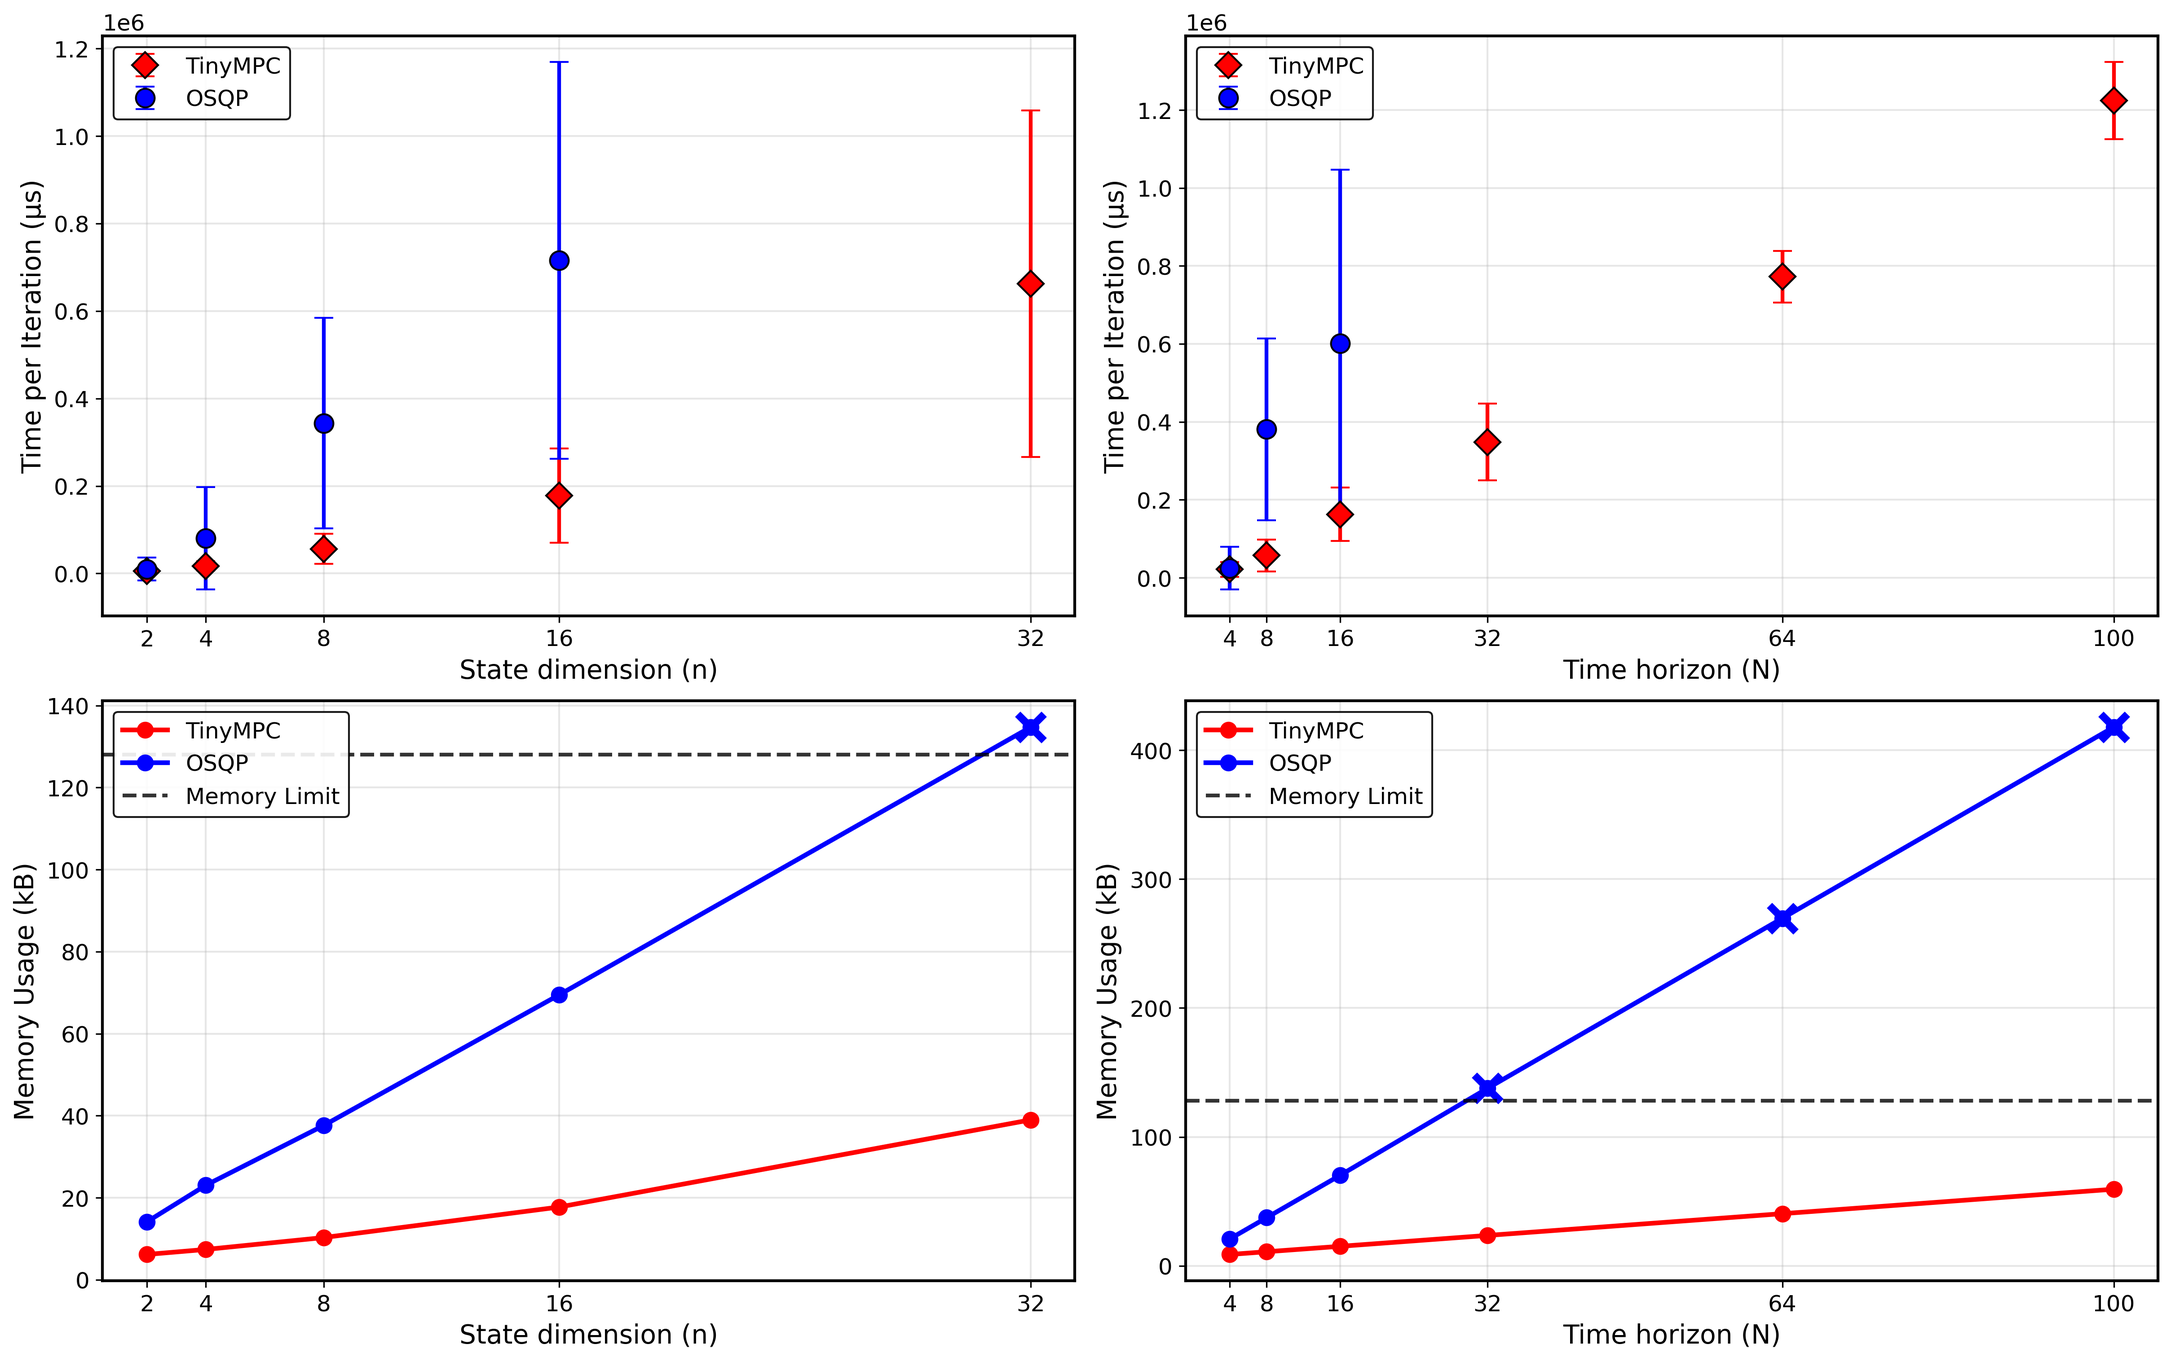
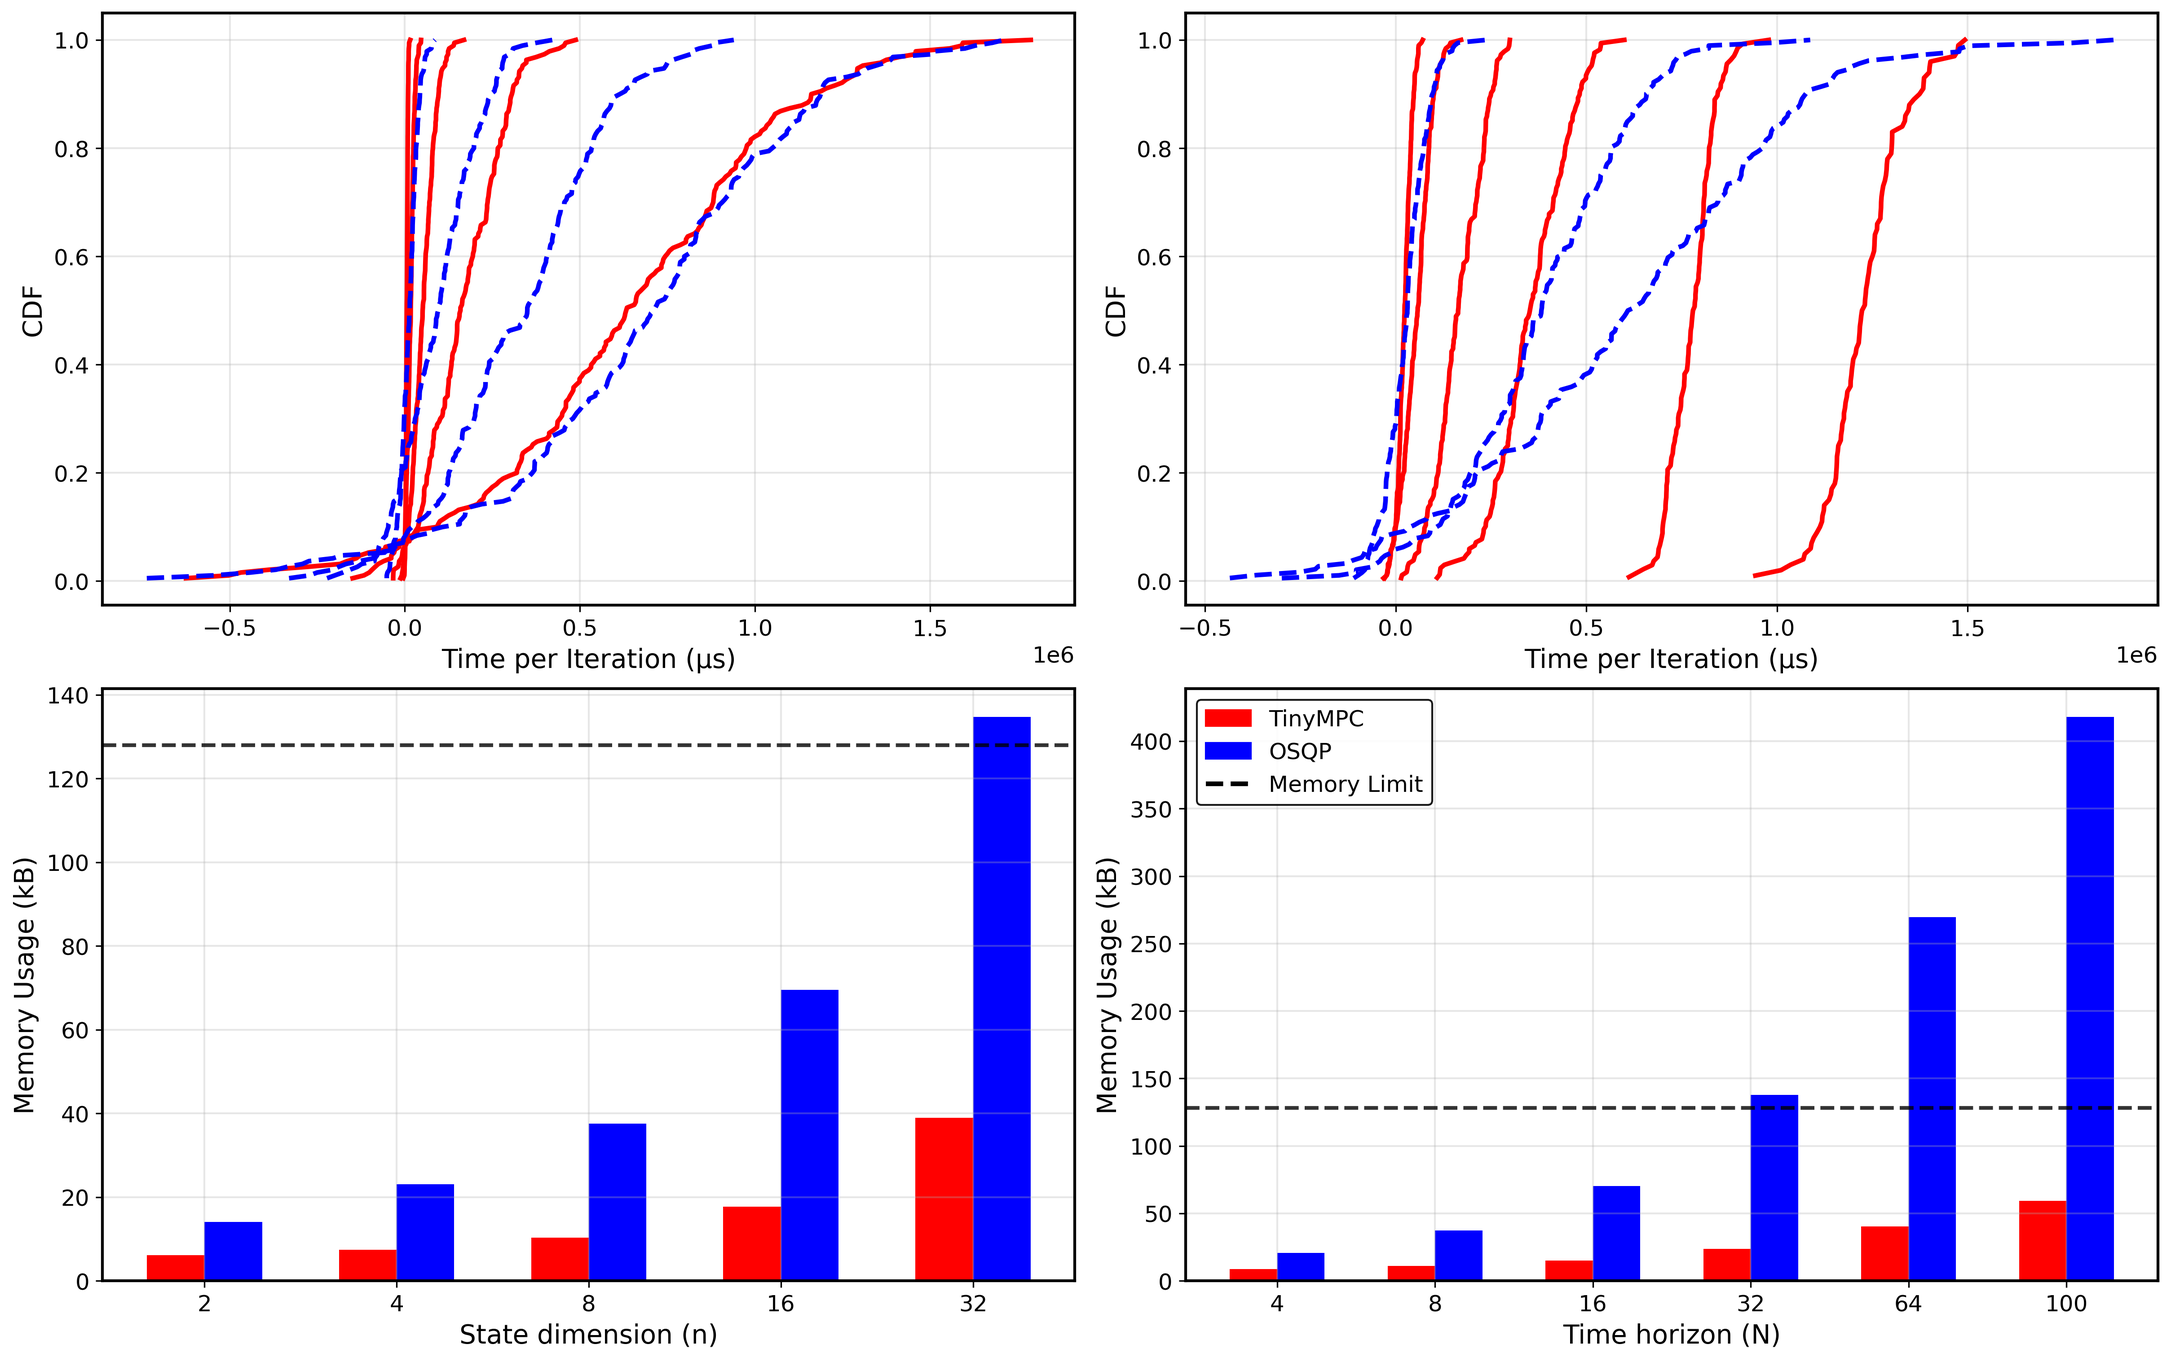
modified scripts and plots

diff --git a/TRO/plot_benchmark_optimized_stacked.py b/TRO/plot_benchmark_optimized_stacked.py
@@ -188,7 +188,7 @@ def collect_horizon_benchmark_data(data_dir):
     return tinympc_data, osqp_data
 
 def plot_benchmark_comparison_lines(states_data, horizon_data):
-    """Create a 2x2 benchmark comparison plot with line plots for memory (fig_draft1)."""
+    """Create a 2x2 benchmark comparison plot with CDFs for timing and line plots for memory (fig_draft1)."""
     # Colors matching reference plot - classic primaries
     TINYMPC_COLOR = '#FF0000'  # Fully-saturated RGB red
     OSQP_COLOR = '#0000FF'     # Fully-saturated RGB blue
@@ -221,117 +221,88 @@ def plot_benchmark_comparison_lines(states_data, horizon_data):
     # Create 2x2 subplot
     fig, ((ax1, ax2), (ax3, ax4)) = plt.subplots(2, 2, figsize=(16, 10), layout='constrained')
     
-    # Top left: States Time (mean values only)
-    states_timing_x = sorted(states_tinympc_timing.keys())
-    states_tinympc_timing_y = [states_tinympc_timing[s]['mean'] for s in states_timing_x]
-    states_tinympc_timing_std = [states_tinympc_timing[s]['std'] for s in states_timing_x]
-
-    states_osqp_timing_x = sorted(states_osqp_timing.keys())
-    states_osqp_timing_y = [states_osqp_timing[s]['mean'] for s in states_osqp_timing_x]
-    states_osqp_timing_std = [states_osqp_timing[s]['std'] for s in states_osqp_timing_x]
+    # Top left: States Time CDF
+    for state in sorted(states_tinympc_timing.keys()):
+        times = np.array([states_tinympc_timing[state]['mean'] + np.random.normal(0, states_tinympc_timing[state]['std']) 
+                         for _ in range(states_tinympc_timing[state]['samples'])])
+        sorted_times = np.sort(times)
+        cdf = np.arange(1, len(sorted_times) + 1) / len(sorted_times)
+        ax1.plot(sorted_times, cdf, '-', color=TINYMPC_COLOR, label=f'TinyMPC n={state}')
     
-    ax1.errorbar(
-        states_timing_x, states_tinympc_timing_y, yerr=states_tinympc_timing_std,
-        fmt='D', color=TINYMPC_COLOR, markersize=10, label='TinyMPC',
-        capsize=5, elinewidth=2, linewidth=0, markeredgecolor='black'
-    )
-    ax1.errorbar(
-        states_osqp_timing_x, states_osqp_timing_y, yerr=states_osqp_timing_std,
-        fmt='o', color=OSQP_COLOR, markersize=10, label='OSQP',
-        capsize=5, elinewidth=2, linewidth=0, markeredgecolor='black'
-    )
+    for state in sorted(states_osqp_timing.keys()):
+        times = np.array([states_osqp_timing[state]['mean'] + np.random.normal(0, states_osqp_timing[state]['std']) 
+                         for _ in range(states_osqp_timing[state]['samples'])])
+        sorted_times = np.sort(times)
+        cdf = np.arange(1, len(sorted_times) + 1) / len(sorted_times)
+        ax1.plot(sorted_times, cdf, '--', color=OSQP_COLOR, label=f'OSQP n={state}')
     
-    ax1.set_xlabel('State dimension (n)')
-    ax1.set_ylabel('Time per Iteration (μs)')
-    ax1.legend(loc='upper left')
+    ax1.set_xlabel('Time per Iteration (μs)')
+    ax1.set_ylabel('CDF')
     ax1.grid(True, alpha=0.3)
-    ax1.set_xticks(states_timing_x)
     
-    # Top right: Horizon Time (mean values only)
-    horizon_timing_x = sorted(horizon_tinympc_timing.keys())
-    horizon_tinympc_timing_y = [horizon_tinympc_timing[h]['mean'] for h in horizon_timing_x]
-    horizon_tinympc_timing_std = [horizon_tinympc_timing[h]['std'] for h in horizon_timing_x]
-
-    horizon_osqp_timing_x = sorted(horizon_osqp_timing.keys())
-    horizon_osqp_timing_y = [horizon_osqp_timing[h]['mean'] for h in horizon_osqp_timing_x]
-    horizon_osqp_timing_std = [horizon_osqp_timing[h]['std'] for h in horizon_osqp_timing_x]
+    # Top right: Horizon Time CDF
+    for horizon in sorted(horizon_tinympc_timing.keys()):
+        times = np.array([horizon_tinympc_timing[horizon]['mean'] + np.random.normal(0, horizon_tinympc_timing[horizon]['std']) 
+                         for _ in range(horizon_tinympc_timing[horizon]['samples'])])
+        sorted_times = np.sort(times)
+        cdf = np.arange(1, len(sorted_times) + 1) / len(sorted_times)
+        ax2.plot(sorted_times, cdf, '-', color=TINYMPC_COLOR, label=f'TinyMPC N={horizon}')
     
-    ax2.errorbar(
-        horizon_timing_x, horizon_tinympc_timing_y, yerr=horizon_tinympc_timing_std,
-        fmt='D', color=TINYMPC_COLOR, markersize=10, label='TinyMPC',
-        capsize=5, elinewidth=2, linewidth=0, markeredgecolor='black'
-    )
-    ax2.errorbar(
-        horizon_osqp_timing_x, horizon_osqp_timing_y, yerr=horizon_osqp_timing_std,
-        fmt='o', color=OSQP_COLOR, markersize=10, label='OSQP',
-        capsize=5, elinewidth=2, linewidth=0, markeredgecolor='black'
-    )
+    for horizon in sorted(horizon_osqp_timing.keys()):
+        times = np.array([horizon_osqp_timing[horizon]['mean'] + np.random.normal(0, horizon_osqp_timing[horizon]['std']) 
+                         for _ in range(horizon_osqp_timing[horizon]['samples'])])
+        sorted_times = np.sort(times)
+        cdf = np.arange(1, len(sorted_times) + 1) / len(sorted_times)
+        ax2.plot(sorted_times, cdf, '--', color=OSQP_COLOR, label=f'OSQP N={horizon}')
     
-    ax2.set_xlabel('Time horizon (N)')
-    ax2.set_ylabel('Time per Iteration (μs)')
-    ax2.legend(loc='upper left')
+    ax2.set_xlabel('Time per Iteration (μs)')
+    ax2.set_ylabel('CDF')
     ax2.grid(True, alpha=0.3)
-    ax2.set_xticks(horizon_timing_x)
     
-    # Bottom left: States Memory with line plots
+    # Bottom left: States Memory with bar charts
     states_x = sorted(states_tinympc_memory.keys())
     states_tinympc_mem_y = [states_tinympc_memory[s] / 1024 for s in states_x]
-    
-    # Get OSQP memory for same states
     states_osqp_mem_y = [states_osqp_memory.get(s, 0) / 1024 for s in states_x]
     
-    # Create line plots
-    ax3.plot(states_x, states_tinympc_mem_y, 'o-', color=TINYMPC_COLOR, 
-             linewidth=2.5, markersize=8, label='TinyMPC')
-    ax3.plot(states_x, states_osqp_mem_y, 'o-', color=OSQP_COLOR, 
-             linewidth=2.5, markersize=8, label='OSQP')
-    
-    # Add crosses where memory limit is exceeded
-    limit_kb = states_ram_limit / 1024
-    for i, (x, y) in enumerate(zip(states_x, states_tinympc_mem_y)):
-        if y > limit_kb:
-            ax3.scatter(x, y, marker='x', color=TINYMPC_COLOR, s=200, linewidth=4)
-    for i, (x, y) in enumerate(zip(states_x, states_osqp_mem_y)):
-        if y > limit_kb:
-            ax3.scatter(x, y, marker='x', color=OSQP_COLOR, s=200, linewidth=4)
+    # Create bar chart
+    x_pos = np.arange(len(states_x))
+    width = 0.3
+    ax3.bar(x_pos - width/2, states_tinympc_mem_y, width, color=TINYMPC_COLOR)
+    ax3.bar(x_pos + width/2, states_osqp_mem_y, width, color=OSQP_COLOR)
     
     ax3.axhline(y=states_ram_limit / 1024, color=RAM_LIMIT_COLOR, linestyle='--', 
-                linewidth=2, alpha=0.8, label='Memory Limit')
+                linewidth=2, alpha=0.8)
     ax3.set_xlabel('State dimension (n)')
     ax3.set_ylabel('Memory Usage (kB)')
-    ax3.set_xticks(states_x)
-    ax3.legend(loc='upper left')
+    ax3.set_xticks(x_pos)
+    ax3.set_xticklabels(states_x)
     ax3.grid(True, alpha=0.3)
     
-    # Bottom right: Horizon Memory with line plots
+    # Bottom right: Horizon Memory with bar charts
     horizon_x = sorted(horizon_tinympc_memory.keys())
     horizon_tinympc_mem_y = [horizon_tinympc_memory[h] / 1024 for h in horizon_x]
-    
-    # Get OSQP memory for same horizons
     horizon_osqp_mem_y = [horizon_osqp_memory.get(h, 0) / 1024 for h in horizon_x]
     
-    # Create line plots
-    ax4.plot(horizon_x, horizon_tinympc_mem_y, 'o-', color=TINYMPC_COLOR,
-             linewidth=2.5, markersize=8, label='TinyMPC')
-    ax4.plot(horizon_x, horizon_osqp_mem_y, 'o-', color=OSQP_COLOR,
-             linewidth=2.5, markersize=8, label='OSQP')
-    
-    # Add crosses where memory limit is exceeded
-    limit_kb = horizon_ram_limit / 1024
-    for i, (x, y) in enumerate(zip(horizon_x, horizon_tinympc_mem_y)):
-        if y > limit_kb:
-            ax4.scatter(x, y, marker='x', color=TINYMPC_COLOR, s=200, linewidth=4)
-    for i, (x, y) in enumerate(zip(horizon_x, horizon_osqp_mem_y)):
-        if y > limit_kb:
-            ax4.scatter(x, y, marker='x', color=OSQP_COLOR, s=200, linewidth=4)
+    # Create bar chart
+    x_pos_h = np.arange(len(horizon_x))
+    ax4.bar(x_pos_h - width/2, horizon_tinympc_mem_y, width, color=TINYMPC_COLOR)
+    ax4.bar(x_pos_h + width/2, horizon_osqp_mem_y, width, color=OSQP_COLOR)
     
     ax4.axhline(y=horizon_ram_limit / 1024, color=RAM_LIMIT_COLOR, linestyle='--', 
-                linewidth=2, alpha=0.8, label='Memory Limit')
+                linewidth=2, alpha=0.8)
     ax4.set_xlabel('Time horizon (N)')
     ax4.set_ylabel('Memory Usage (kB)')
-    ax4.set_xticks(horizon_x)
-    ax4.legend(loc='upper left')
+    ax4.set_xticks(x_pos_h)
+    ax4.set_xticklabels(horizon_x)
     ax4.grid(True, alpha=0.3)
+    
+    # Add a single legend at the bottom right
+    handles = [
+        plt.Rectangle((0,0),1,1, color=TINYMPC_COLOR, label='TinyMPC'),
+        plt.Rectangle((0,0),1,1, color=OSQP_COLOR, label='OSQP'),
+        plt.Line2D([0], [0], color=RAM_LIMIT_COLOR, linestyle='--', label='Memory Limit')
+    ]
+    ax4.legend(handles=handles, loc='upper left')
     
     plt.savefig('fig_draft1.png', dpi=300, bbox_inches='tight', 
                 facecolor='white', edgecolor='none')
@@ -344,6 +315,11 @@ def plot_benchmark_comparison_bars(states_data, horizon_data):
     OSQP_COLOR = '#0000FF'     # Fully-saturated RGB blue
     RAM_LIMIT_COLOR = 'black'  # Black for limit line
     
+    # Define offset for x-values to prevent marker overlap
+    STATES_OFFSET = 0.15  # Smaller offset for states (smaller numbers)
+    HORIZON_OFFSET = 0.2  # Larger offset for horizon (larger numbers)
+    SPECIAL_OFFSET = 1.0  # Special offset for N=16
+    
     # Unpack data
     states_tinympc_timing, states_osqp_timing = states_data['timing']
     horizon_tinympc_timing, horizon_osqp_timing = horizon_data['timing']
@@ -380,20 +356,23 @@ def plot_benchmark_comparison_bars(states_data, horizon_data):
     states_osqp_timing_y = [states_osqp_timing[s]['mean'] for s in states_osqp_timing_x]
     states_osqp_timing_std = [states_osqp_timing[s]['std'] for s in states_osqp_timing_x]
     
+    # Apply offset to x values for better visibility
+    states_tinympc_x_offset = [x - STATES_OFFSET for x in states_timing_x]
+    states_osqp_x_offset = [x + STATES_OFFSET for x in states_osqp_timing_x]
+    
     ax1.errorbar(
-        states_timing_x, states_tinympc_timing_y, yerr=states_tinympc_timing_std,
-        fmt='D', color=TINYMPC_COLOR, markersize=10, label='TinyMPC',
+        states_tinympc_x_offset, states_tinympc_timing_y, yerr=states_tinympc_timing_std,
+        fmt='D', color=TINYMPC_COLOR, markersize=10,
         capsize=5, elinewidth=2, linewidth=0, markeredgecolor='black'
     )
     ax1.errorbar(
-        states_osqp_timing_x, states_osqp_timing_y, yerr=states_osqp_timing_std,
-        fmt='o', color=OSQP_COLOR, markersize=10, label='OSQP',
+        states_osqp_x_offset, states_osqp_timing_y, yerr=states_osqp_timing_std,
+        fmt='o', color=OSQP_COLOR, markersize=10,
         capsize=5, elinewidth=2, linewidth=0, markeredgecolor='black'
     )
     
     ax1.set_xlabel('State dimension (n)')
     ax1.set_ylabel('Time per Iteration (μs)')
-    ax1.legend(loc='upper left')
     ax1.grid(True, alpha=0.3)
     ax1.set_xticks(states_timing_x)
     
@@ -406,65 +385,83 @@ def plot_benchmark_comparison_bars(states_data, horizon_data):
     horizon_osqp_timing_y = [horizon_osqp_timing[h]['mean'] for h in horizon_osqp_timing_x]
     horizon_osqp_timing_std = [horizon_osqp_timing[h]['std'] for h in horizon_osqp_timing_x]
     
+    # Apply offset to x values for better visibility
+    horizon_tinympc_x_offset = []
+    horizon_osqp_x_offset = []
+    
+    # Create offset x-coordinates for each dataset separately
+    for x in horizon_timing_x:
+        if x == 16:
+            horizon_tinympc_x_offset.append(x - SPECIAL_OFFSET)
+        else:
+            horizon_tinympc_x_offset.append(x - HORIZON_OFFSET)
+            
+    for x in horizon_osqp_timing_x:
+        if x == 16:
+            horizon_osqp_x_offset.append(x + SPECIAL_OFFSET)
+        else:
+            horizon_osqp_x_offset.append(x + HORIZON_OFFSET)
+    
     ax2.errorbar(
-        horizon_timing_x, horizon_tinympc_timing_y, yerr=horizon_tinympc_timing_std,
-        fmt='D', color=TINYMPC_COLOR, markersize=10, label='TinyMPC',
+        horizon_tinympc_x_offset, horizon_tinympc_timing_y, yerr=horizon_tinympc_timing_std,
+        fmt='D', color=TINYMPC_COLOR, markersize=10,
         capsize=5, elinewidth=2, linewidth=0, markeredgecolor='black'
     )
     ax2.errorbar(
-        horizon_osqp_timing_x, horizon_osqp_timing_y, yerr=horizon_osqp_timing_std,
-        fmt='o', color=OSQP_COLOR, markersize=10, label='OSQP',
+        horizon_osqp_x_offset, horizon_osqp_timing_y, yerr=horizon_osqp_timing_std,
+        fmt='o', color=OSQP_COLOR, markersize=10,
         capsize=5, elinewidth=2, linewidth=0, markeredgecolor='black'
     )
     
     ax2.set_xlabel('Time horizon (N)')
     ax2.set_ylabel('Time per Iteration (μs)')
-    ax2.legend(loc='upper left')
     ax2.grid(True, alpha=0.3)
     ax2.set_xticks(horizon_timing_x)
     
     # Bottom left: States Memory with bar charts
     states_x = sorted(states_tinympc_memory.keys())
     states_tinympc_mem_y = [states_tinympc_memory[s] / 1024 for s in states_x]
-    
-    # Get OSQP memory for same states
     states_osqp_mem_y = [states_osqp_memory.get(s, 0) / 1024 for s in states_x]
     
-    # Create bar chart
+    # Create bar chart with same x positions as timing plot
     x_pos = np.arange(len(states_x))
-    width = 0.35
-    ax3.bar(x_pos - width/2, states_tinympc_mem_y, width, label='TinyMPC', color=TINYMPC_COLOR)
-    ax3.bar(x_pos + width/2, states_osqp_mem_y, width, label='OSQP', color=OSQP_COLOR)
+    width = 0.3  # Increased width to match timing plot offset
+    ax3.bar(x_pos - width/2, states_tinympc_mem_y, width, color=TINYMPC_COLOR)
+    ax3.bar(x_pos + width/2, states_osqp_mem_y, width, color=OSQP_COLOR)
     
     ax3.axhline(y=states_ram_limit / 1024, color=RAM_LIMIT_COLOR, linestyle='--', 
-                linewidth=2, alpha=0.8, label='Memory Limit')
+                linewidth=2, alpha=0.8)
     ax3.set_xlabel('State dimension (n)')
     ax3.set_ylabel('Memory Usage (kB)')
     ax3.set_xticks(x_pos)
     ax3.set_xticklabels(states_x)
-    ax3.legend(loc='upper left')
     ax3.grid(True, alpha=0.3)
     
     # Bottom right: Horizon Memory with bar charts
     horizon_x = sorted(horizon_tinympc_memory.keys())
     horizon_tinympc_mem_y = [horizon_tinympc_memory[h] / 1024 for h in horizon_x]
-    
-    # Get OSQP memory for same horizons
     horizon_osqp_mem_y = [horizon_osqp_memory.get(h, 0) / 1024 for h in horizon_x]
     
-    # Create bar chart
+    # Create bar chart with same x positions as timing plot
     x_pos_h = np.arange(len(horizon_x))
-    ax4.bar(x_pos_h - width/2, horizon_tinympc_mem_y, width, label='TinyMPC', color=TINYMPC_COLOR)
-    ax4.bar(x_pos_h + width/2, horizon_osqp_mem_y, width, label='OSQP', color=OSQP_COLOR)
+    ax4.bar(x_pos_h - width/2, horizon_tinympc_mem_y, width, color=TINYMPC_COLOR)
+    ax4.bar(x_pos_h + width/2, horizon_osqp_mem_y, width, color=OSQP_COLOR)
     
     ax4.axhline(y=horizon_ram_limit / 1024, color=RAM_LIMIT_COLOR, linestyle='--', 
-                linewidth=2, alpha=0.8, label='Memory Limit')
+                linewidth=2, alpha=0.8)
     ax4.set_xlabel('Time horizon (N)')
     ax4.set_ylabel('Memory Usage (kB)')
     ax4.set_xticks(x_pos_h)
     ax4.set_xticklabels(horizon_x)
-    ax4.legend(loc='upper left')
     ax4.grid(True, alpha=0.3)
+    
+    # Add a single legend at the top left of bottom right plot
+    handles = [
+        plt.Rectangle((0,0),1,1, color=TINYMPC_COLOR, label='TinyMPC'),
+        plt.Rectangle((0,0),1,1, color=OSQP_COLOR, label='OSQP'),
+        plt.Line2D([0], [0], color=RAM_LIMIT_COLOR, linestyle='--', label='Memory Limit')
+    ]
+    ax4.legend(handles=handles, loc='upper left')
     
     plt.savefig('fig_draft2.png', dpi=300, bbox_inches='tight', 
                 facecolor='white', edgecolor='none')
